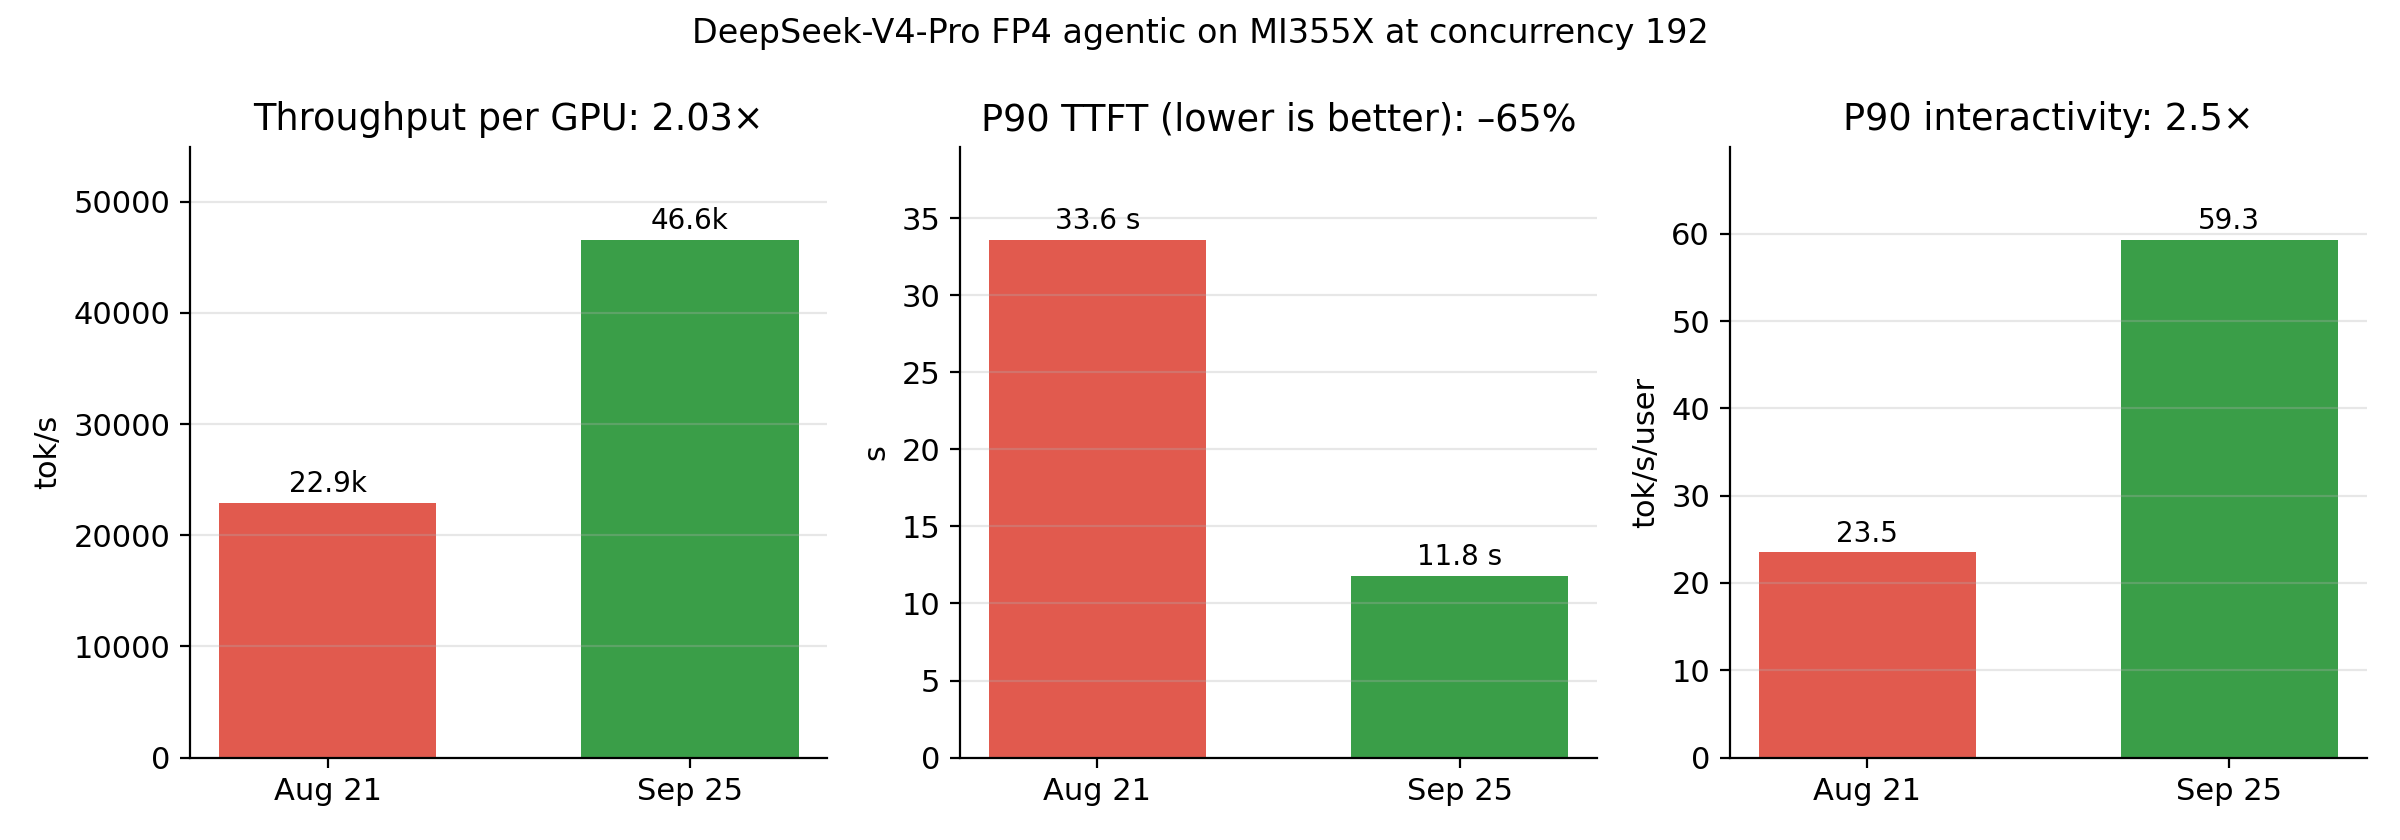
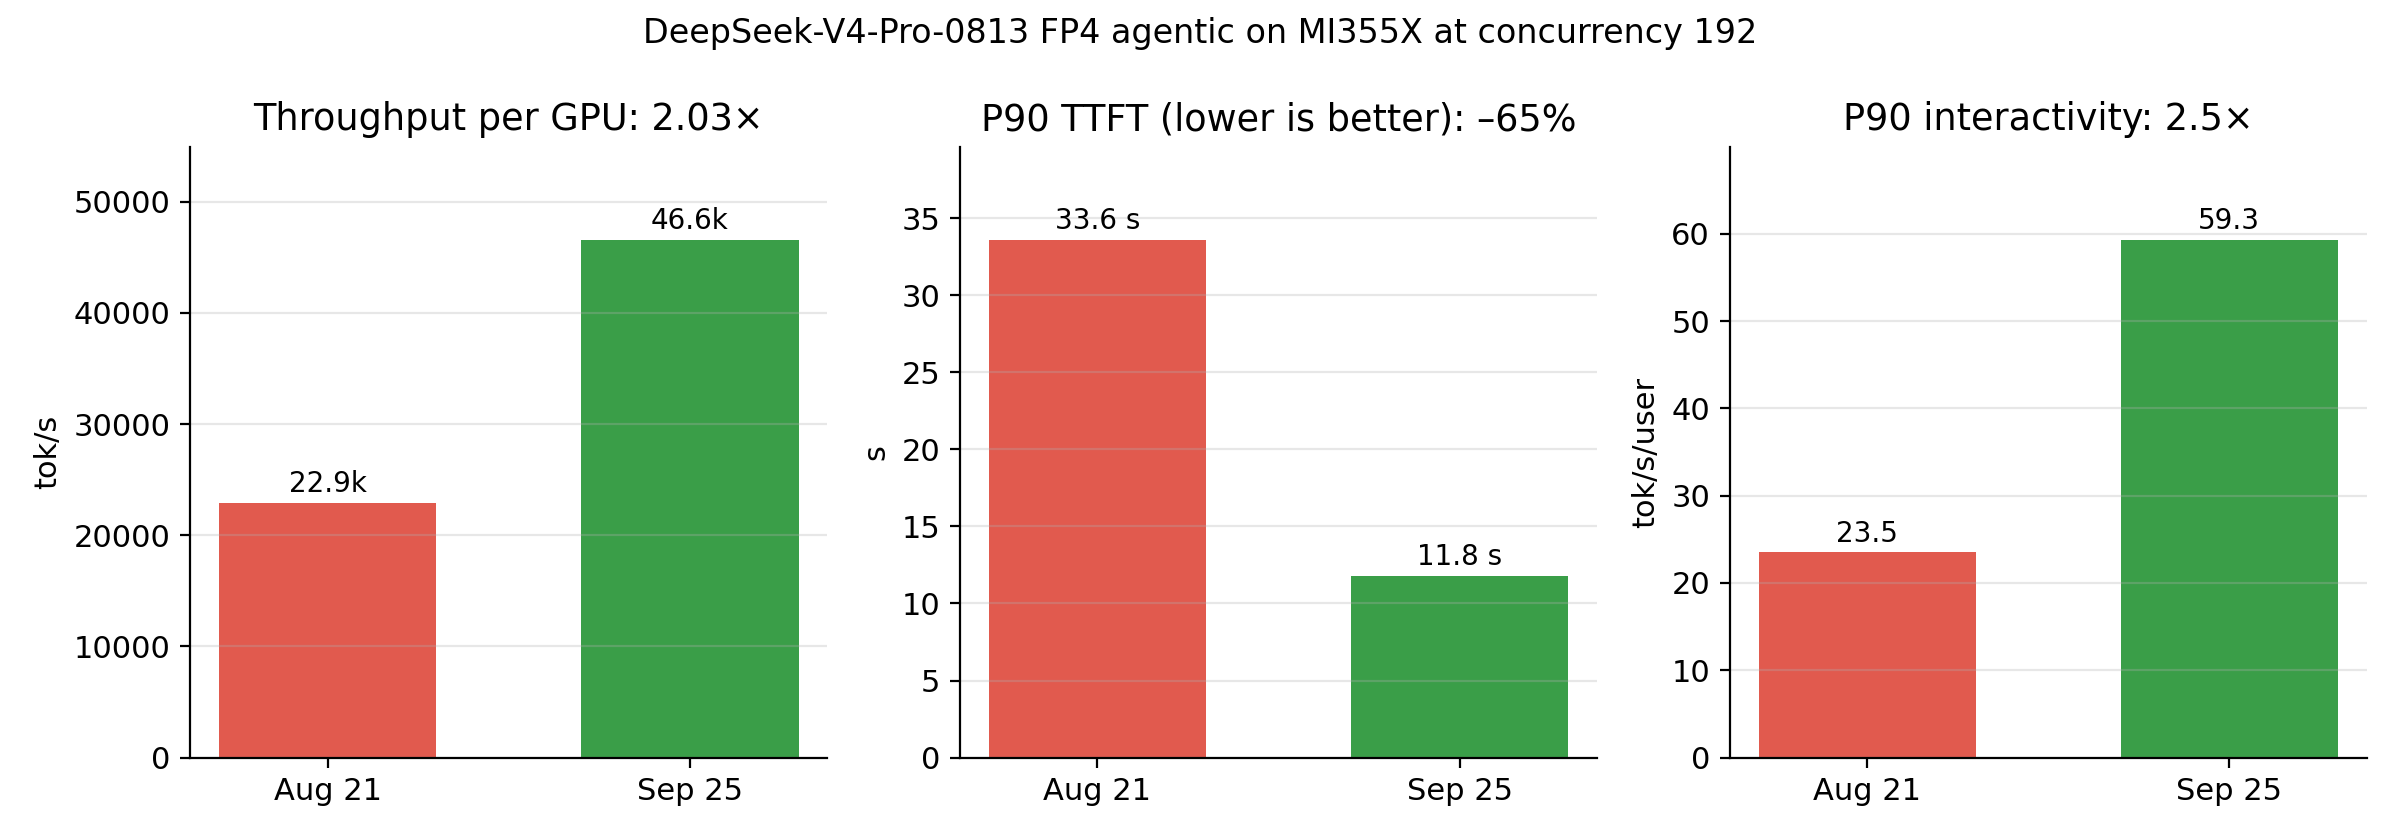
Label fig5 model as DeepSeek-V4-Pro-0813

Changed region(s): [[0.25, 0.0, 0.75, 0.0619]]

diff --git a/make_figures.py b/make_figures.py
@@ -174,7 +174,7 @@ def fig5_c192_summary():
         ax.set_ylim(0, top * 1.18)
         ax.set_title(f"{title}: {change}")
         ax.grid(axis="x", visible=False)
-    fig.suptitle("DeepSeek-V4-Pro FP4 agentic on MI355X at concurrency 192", fontsize=12)
+    fig.suptitle("DeepSeek-V4-Pro-0813 FP4 agentic on MI355X at concurrency 192", fontsize=12)
     fig.tight_layout()
     fig.savefig(os.path.join(OUT, "fig5_c192_aug_vs_sep.png"), dpi=200)
     plt.close(fig)
